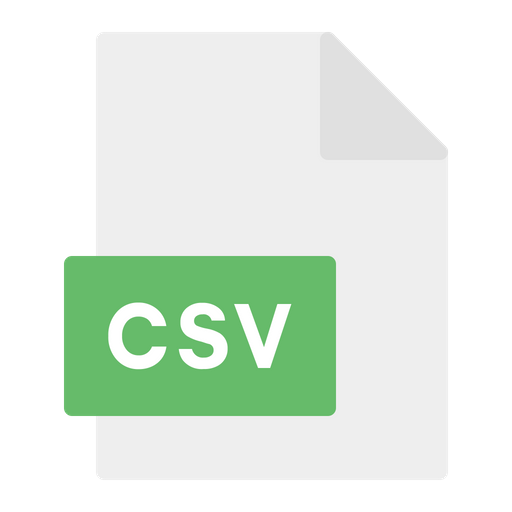
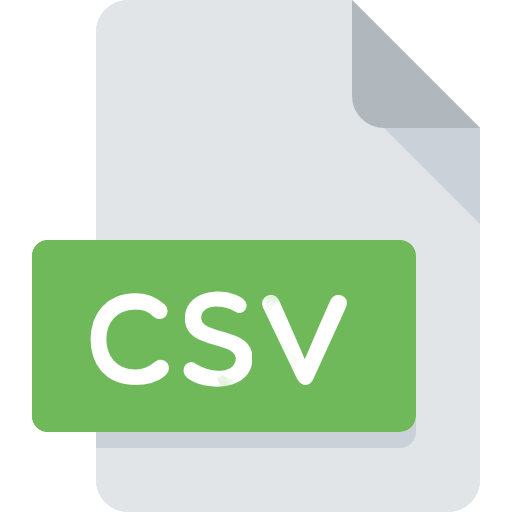
stok,penjualan, pembelian -> +csv report

diff --git a/src/components/App/modals/report/sale/form_sale_excel.js b/src/components/App/modals/report/sale/form_sale_excel.js
@@ -7,10 +7,11 @@ import moment from "moment";
 import {toRp} from "helper";
 // import ReactHTMLTableToExcel from "react-html-table-to-excel";
 // // import jsPDF from 'jspdf';
-import imgExcel from 'assets/xls.png';
+import imgExcel from 'assets/xlsx.png';
+import imgCsv from 'assets/csv.png';
 // import imgPdf from 'assets/pdf.png';
 import "jspdf-autotable";
-import {to_pdf_l} from "helper";
+import {myPdf} from "helper";
 import XLSX from 'xlsx'
 import Spinner from '../../../../../Spinner';
 
@@ -55,14 +56,14 @@ class SaleReportExcel extends Component{
         '<h3 align="center"><center>LOKASI : '+(this.props.location===''?'SEMUA LOKASI':this.props.location)+'</center></h3>';
         const headers = [[
             "Kd Trx",
-            "Tanggal Trx",
+            "Tanggal",
             "Jam",
             "Customer",
             "Kasir",
             "Omset",
-            "Disk. Peritem(%)",
-            "Disk. Total(rp)",
-            "Disk. Total(%)",
+            "Diskon Item",
+            "Diskon Total (rp)",
+            "Diskon Total (%)",
             "HPP",
             "Hrg Jual",
             "Profit",
@@ -81,12 +82,11 @@ class SaleReportExcel extends Component{
             "Jenis Trx",
         ]];
         let data = typeof this.props.saleReportExcel.data === 'object'?this.props.saleReportExcel.data.map(v=> [
-            moment(v.tgl).format("yyyy-MM-DD"),
             v.kd_trx,
             moment(v.tgl).format("yyyy/MM/DD"),
             moment(v.jam).format("hh:mm:ss"),
+            v.customer,
             v.nama,
-            v.kd_kasir,
             toRp(parseInt(v.omset,10)),
             toRp(parseInt(v.diskon_item,10)),
             toRp(v.dis_rp),
@@ -109,23 +109,57 @@ class SaleReportExcel extends Component{
             v.jenis_trx,
         ]):'';
         // data +=["TOTAL","","","","","","","","",tprice];
-        to_pdf_l(
-            "sale_",
-            stringHtml,
-            headers,
-            data,
-            // footer
+        // hint filename,title='',header=[],body=[],footer=[],orientation='portrait',unit='in',format=[],fontSize=10,ml=10,mt=10,mr=10,mb=10
+        myPdf(
+            "sale_", //filname
+            stringHtml, //title
+            headers, //header
+            data, //data body
+            [],// footer //footer
+            "landscape", //orientation
+            "mm", // unit
+            "legal", //format
+            5, //fontSize
+            10, //marginLeft
+            10, //marginTop
+            1, //marginRight
+            1, //marginBottom
         );
         this.toggle(e);
       }
-    printDocumentXLsx = (e) => {
+    printDocumentXLsx = (e,param) => {
         e.preventDefault();
 
         let header = [
                         ['LAPORAN PENJUALAN'],
                         ['PERIODE : '+this.props.startDate + ' - ' + this.props.endDate+''],
                         [''],
-                        ['Kd Trx','Tanggal','Jam','Customer','Kasir','Omset','Diskon Item','Diskon Total (rp)','Diskon Total (%)','HPP','Hrg Jual','Profit','Reg.Member','Trx Lain','Keterangan','Grand Total','Rounding','Tunai','Change','Transfer','Charge','Nama Kartu','Status','Lokasi','Jenis Trx']
+                        [
+                            'Kd Trx',
+                            'Tanggal',
+                            'Jam',
+                            'Customer',
+                            'Kasir',
+                            'Omset',
+                            'Diskon Item',
+                            'Diskon Total (rp)',
+                            'Diskon Total (%)',
+                            'HPP',
+                            'Hrg Jual',
+                            'Profit',
+                            'Reg.Member',
+                            'Trx Lain',
+                            'Keterangan',
+                            'Grand Total',
+                            'Rounding',
+                            'Tunai',
+                            'Change',
+                            'Transfer',
+                            'Charge',
+                            'Nama Kartu',
+                            'Status',
+                            'Lokasi',
+                            'Jenis Trx']
                     ]
         let footer = [
                         ['TOTAL','','','','',toRp(this.props.totalPenjualanExcel.omset),toRp(this.props.totalPenjualanExcel.dis_item),toRp(this.props.totalPenjualanExcel.dis_rp),this.props.totalPenjualanExcel.dis_persen,'','','','',toRp(this.props.totalPenjualanExcel.kas_lain),'',toRp(this.props.totalPenjualanExcel.gt),toRp(this.props.totalPenjualanExcel.rounding),toRp(this.props.totalPenjualanExcel.bayar),toRp(this.props.totalPenjualanExcel.change),toRp(this.props.totalPenjualanExcel.jml_kartu),toRp(this.props.totalPenjualanExcel.charge),'','','','']
@@ -190,8 +224,8 @@ class SaleReportExcel extends Component{
         
         let wb = XLSX.utils.book_new();
         XLSX.utils.book_append_sheet(wb, ws, "SheetJS");
-        let exportFileName = `Laporan_Penjualan_${moment(new Date()).format('YYYYMMDDHHMMss')}.xlsx`;
-        XLSX.writeFile(wb, exportFileName, {type:'file', bookType:"xlsx"});
+        let exportFileName = `Laporan_Penjualan_${moment(new Date()).format('YYYYMMDDHHMMss')}.${param==='csv'?`csv`:`xlsx`}`;
+        XLSX.writeFile(wb, exportFileName, {type:'file', bookType:param==='csv'?"csv":"xlsx"});
 
         this.toggle(e);
     }
@@ -210,14 +244,38 @@ class SaleReportExcel extends Component{
                             {/* <div className="col-4">
                                 <button type="button" className="btn btn-info btn-block" onClick={(e => this.handleView(e))}>VIEW</button>
                             </div> */}
-                            <div className="col-6 offset-3">
+                            <div className="col-6">
                                 <div className="single-gallery--item">
                                     <div className="gallery-thumb">
                                         <img src={imgExcel} alt=""></img>
                                     </div>
                                     <div className="gallery-text-area">
                                         <div className="gallery-icon">
-                                            <button type="button" className="btn btn-circle btn-lg btn-success" onClick={(e => this.printDocumentXLsx(e))}><i className="fa fa-print"></i></button>
+                                            <button type="button" className="btn btn-circle btn-lg btn-success" onClick={(e => this.printDocumentXLsx(e,'xlsx'))}><i className="fa fa-print"></i></button>
+                                        </div>
+                                    </div>
+                                </div>
+                            </div>
+                            {/* <div className="col-4">
+                                <div className="single-gallery--item">
+                                    <div className="gallery-thumb">
+                                        <img src={imgPdf} alt=""></img>
+                                    </div>
+                                    <div className="gallery-text-area">
+                                        <div className="gallery-icon">
+                                            <button type="button" className="btn btn-circle btn-lg btn-danger" onClick={(e => this.printDocument(e,))}><i className="fa fa-print"></i></button>
+                                        </div>
+                                    </div>
+                                </div>
+                            </div> */}
+                            <div className="col-6">
+                                <div className="single-gallery--item">
+                                    <div className="gallery-thumb">
+                                        <img src={imgCsv} alt=""></img>
+                                    </div>
+                                    <div className="gallery-text-area">
+                                        <div className="gallery-icon">
+                                            <button type="button" className="btn btn-circle btn-lg btn-success" onClick={(e => this.printDocumentXLsx(e,'csv'))}><i className="fa fa-print"></i></button>
                                         </div>
                                     </div>
                                 </div>

diff --git a/src/components/App/modals/report/inventory/stock_report/form_stock_report_excel.js b/src/components/App/modals/report/inventory/stock_report/form_stock_report_excel.js
@@ -5,7 +5,8 @@ import WrapperModal from "../../../_wrapper.modal";
 import {ModalBody} from "reactstrap";
 import {toRp,to_pdf} from "helper";
 // import ReactHTMLTableToExcel from "react-html-table-to-excel";
-import imgExcel from 'assets/xls.png';
+import imgExcel from 'assets/xlsx.png';
+import imgCsv from 'assets/csv.png';
 // import imgPdf from 'assets/pdf.png';
 import "jspdf-autotable";
 import Spinner from '../../../../../../Spinner';
@@ -81,7 +82,7 @@ class StockReportExcel extends Component{
         );
         this.toggle(e);
       }
-      printDocumentXLsx = (e) => {
+      printDocumentXLsx = (e,param) => {
         e.preventDefault();
 
         let header = [
@@ -153,8 +154,8 @@ class StockReportExcel extends Component{
         
         let wb = XLSX.utils.book_new();
         XLSX.utils.book_append_sheet(wb, ws, "SheetJS");
-        let exportFileName = `Laporan_Stock_${moment(new Date()).format('YYYYMMDDHHMMss')}.xlsx`;
-        XLSX.writeFile(wb, exportFileName, {type:'file', bookType:"xlsx"});
+        let exportFileName = `Laporan_Stock_${moment(new Date()).format('YYYYMMDDHHMMss')}.${param==='csv'?`csv`:`xlsx`}`;
+        XLSX.writeFile(wb, exportFileName, {type:'file', bookType:param==='csv'?"csv":"xlsx"});
 
         this.toggle(e);
     }
@@ -179,14 +180,26 @@ class StockReportExcel extends Component{
                             {/* <div className="col-4">
                                 <button type="button" className="btn btn-info btn-block" onClick={(e => this.handleView(e))}>VIEW</button>
                             </div> */}
-                            <div className="col-6 offset-3">
+                            <div className="col-6">
                                 <div className="single-gallery--item">
                                     <div className="gallery-thumb">
                                         <img src={imgExcel} alt=""></img>
                                     </div>
                                     <div className="gallery-text-area">
                                         <div className="gallery-icon">
-                                            <button type="button" className="btn btn-circle btn-lg btn-success" onClick={(e => this.printDocumentXLsx(e))}><i className="fa fa-print"></i></button>
+                                            <button type="button" className="btn btn-circle btn-lg btn-success" onClick={(e => this.printDocumentXLsx(e,'xlsx'))}><i className="fa fa-print"></i></button>
+                                        </div>
+                                    </div>
+                                </div>
+                            </div>
+                            <div className="col-6">
+                                <div className="single-gallery--item">
+                                    <div className="gallery-thumb">
+                                        <img src={imgCsv} alt=""></img>
+                                    </div>
+                                    <div className="gallery-text-area">
+                                        <div className="gallery-icon">
+                                            <button type="button" className="btn btn-circle btn-lg btn-success" onClick={(e => this.printDocumentXLsx(e,'csv'))}><i className="fa fa-print"></i></button>
                                         </div>
                                     </div>
                                 </div>

diff --git a/src/components/App/modals/report/purchase/receive/form_receive_excel.js b/src/components/App/modals/report/purchase/receive/form_receive_excel.js
@@ -8,7 +8,8 @@ import moment from "moment";
 import {to_pdf} from "helper";
 // import ReactHTMLTableToExcel from "react-html-table-to-excel";
 // import jsPDF from 'jspdf';
-import imgExcel from 'assets/xls.png';
+import imgExcel from 'assets/xlsx.png';
+import imgCsv from 'assets/csv.png';
 // import imgPdf from 'assets/pdf.png';
 import "jspdf-autotable";
 import XLSX from 'xlsx'
@@ -100,7 +101,7 @@ class ReceiveReportExcel extends Component{
         );
         this.toggle(e);
       }
-      printDocumentXLsx = (e) => {
+      printDocumentXLsx = (e,param) => {
         e.preventDefault();
 
         let header = [
@@ -176,8 +177,8 @@ class ReceiveReportExcel extends Component{
         
         let wb = XLSX.utils.book_new();
         XLSX.utils.book_append_sheet(wb, ws, "SheetJS");
-        let exportFileName = `Laporan_Receive_Pembelian_${moment(new Date()).format('YYYYMMDDHHMMss')}.xlsx`;
-        XLSX.writeFile(wb, exportFileName, {type:'file', bookType:"xlsx"});
+        let exportFileName = `Laporan_Receive_Pembelian_${moment(new Date()).format('YYYYMMDDHHMMss')}.${param==='csv'?`csv`:`xlsx`}`;
+        XLSX.writeFile(wb, exportFileName, {type:'file', bookType:param==='csv'?"csv":"xlsx"});
 
         this.toggle(e);
     }
@@ -196,14 +197,26 @@ class ReceiveReportExcel extends Component{
                             {/* <div className="col-4">
                                 <button type="button" className="btn btn-info btn-block" onClick={(e => this.handleView(e))}>VIEW</button>
                             </div> */}
-                            <div className="col-6 offset-3">
+                            <div className="col-6">
                                 <div className="single-gallery--item">
                                     <div className="gallery-thumb">
                                         <img src={imgExcel} alt=""></img>
                                     </div>
                                     <div className="gallery-text-area">
                                         <div className="gallery-icon">
-                                            <button type="button" className="btn btn-circle btn-lg btn-danger" onClick={(e => this.printDocumentXLsx(e))}><i className="fa fa-print"></i></button>
+                                            <button type="button" className="btn btn-circle btn-lg btn-danger" onClick={(e => this.printDocumentXLsx(e,'xlsx'))}><i className="fa fa-print"></i></button>
+                                        </div>
+                                    </div>
+                                </div>
+                            </div>
+                            <div className="col-6">
+                                <div className="single-gallery--item">
+                                    <div className="gallery-thumb">
+                                        <img src={imgCsv} alt=""></img>
+                                    </div>
+                                    <div className="gallery-text-area">
+                                        <div className="gallery-icon">
+                                            <button type="button" className="btn btn-circle btn-lg btn-danger" onClick={(e => this.printDocumentXLsx(e,'csv'))}><i className="fa fa-print"></i></button>
                                         </div>
                                     </div>
                                 </div>

diff --git a/src/components/App/modals/hutang/detail_hutang_report.js b/src/components/App/modals/hutang/detail_hutang_report.js
@@ -108,7 +108,7 @@ class DetailSaleByProductReport extends Component{
     }
 
     render(){
-        
+        console.log(this.props.detail)
         const {data,last_page, per_page,current_page} = this.props.hutangReportDetail;
         const centerStyle = {verticalAlign: "middle", textAlign: "center",};
         return (
@@ -136,19 +136,19 @@ class DetailSaleByProductReport extends Component{
                         <tbody className="bg-transparent no-border" style={{border:"none"}}>
                             <tr>
                                 {/* <th className="text-black" style={centerStyle}>id</th> */}
+                                <th className="text-black" style={centerStyle}>No Faktur Beli</th>
                                 <th className="text-black" style={centerStyle}>Nama Toko</th>
-                                <th className="text-black" style={centerStyle}>Nama</th>
-                                <th className="text-black" style={centerStyle}>Jumlah Hutang</th>
-                                <th className="text-black" style={centerStyle}>Jumlah Telah DIbayar</th>
+                                <th className="text-black" style={centerStyle}>Supplier</th>
+                                <th className="text-black" style={centerStyle}>Nilai Pembelian</th>
                                 <th className="text-black" style={centerStyle}>Status</th>
                                 <th className="text-black" style={centerStyle}>Tempo</th>
                             </tr>
                             <tr>
                                 {/* <th className="text-black" style={centerStyle}>{this.props.detail.id}</th> */}
+                                <th className="text-black" style={centerStyle}>{this.props.detail.no_faktur_beli}</th>
                                 <th className="text-black" style={centerStyle}>{this.props.detail.nama_toko}</th>
-                                <th className="text-black" style={centerStyle}>{this.props.detail.nama}</th>
-                                <th className="text-black" style={centerStyle}>{toRp(parseInt(this.props.detail.jml_hutang,10))}</th>
-                                <th className="text-black" style={centerStyle}>{toRp(parseInt(this.props.detail.jumlah_telah_bayar,10))}</th>
+                                <th className="text-black" style={centerStyle}>{this.props.detail.supplier}</th>
+                                <th className="text-black" style={centerStyle}>{toRp(parseInt(this.props.detail.nilai_pembelian,10))}</th>
                                 <th className="text-black" style={centerStyle}>{this.props.detail.status}</th>
                                 <th className="text-black" style={centerStyle}>{moment(this.props.detail.tempo).format('YYYY-MM-DD')}</th>
                             </tr>

diff --git a/src/components/App/report/hutang/index.js b/src/components/App/report/hutang/index.js
@@ -115,20 +115,28 @@ class HutangReport extends Component{
         })
         localStorage.setItem('search_by_hutang_report', sb.value);
     }
-    handleDetail(e,id, nama_toko, supplier, jml_hutang, nilai_pembelian, status, tempo){
+    handleDetail(e,id, no_faktur_beli=0, nama_toko=0, supplier=0, nilai_pembelian=0, status=0, tempo=0){
         e.preventDefault();
         this.setState({
             detail:
                 {
                     "id":id,
+                    "no_faktur_beli":no_faktur_beli,
                     "nama_toko":nama_toko,
                     "supplier":supplier,
-                    "jml_hutang":jml_hutang,
                     "nilai_pembelian":nilai_pembelian,
                     "status":status,
                     "tempo":tempo,
                 }
-        })
+        });
+        console.log("id",id);
+        console.log("no_faktur_beli",no_faktur_beli);
+        console.log("nama_toko",nama_toko);
+        console.log("supplier",supplier);
+        console.log("nilai_pembelian",nilai_pembelian);
+        console.log("status",status);
+        console.log("tempo",tempo);
+        // console.log(this.state.detail)
         const bool = !this.props.isOpen;
         this.props.dispatch(ModalToggle(bool));
         this.props.dispatch(ModalType("detailHutangReportDetail"));

diff --git a/src/helper.js b/src/helper.js
@@ -13,6 +13,28 @@ export const stringifyFormData = (fd) => {
     }
     return data;
 }
+
+export const myPdf = (filename,title='',header=[],body=[],footer=[],orientation='portrait',unit='in',format=[],fontSize=10,ml=10,mt=10,mr=10,mb=10)=>{
+    const doc = jsPDF(orientation, unit, format);
+    doc.setFontSize(fontSize);
+    let content = {
+        headStyles:{backgroundColor:[0,0,0,0]},
+        footStyles:{},
+        bodyStyles:{lineWidth: 0.2, lineColor: [33, 33, 33], marginBottom:mb},
+        // theme:'grid',
+        startY: 100,
+        head: header,
+        body: body,
+        foot:footer,
+        margin: {bottom: mb, top: mt}
+    };
+    doc.fromHTML(title, ml, mr, {'align':'center' });
+    // doc.text(title, marginLeft, 40);
+    doc.autoTable(content);
+    addFooters(doc);
+    return doc.save(filename+"report.pdf");
+
+}
 export const to_pdf = (filename,title='',header=[],body=[],footer=[])=>{
     const doc = jsPDF('portrait', 'pt', 'A4');
     const marginLeft = 40;
